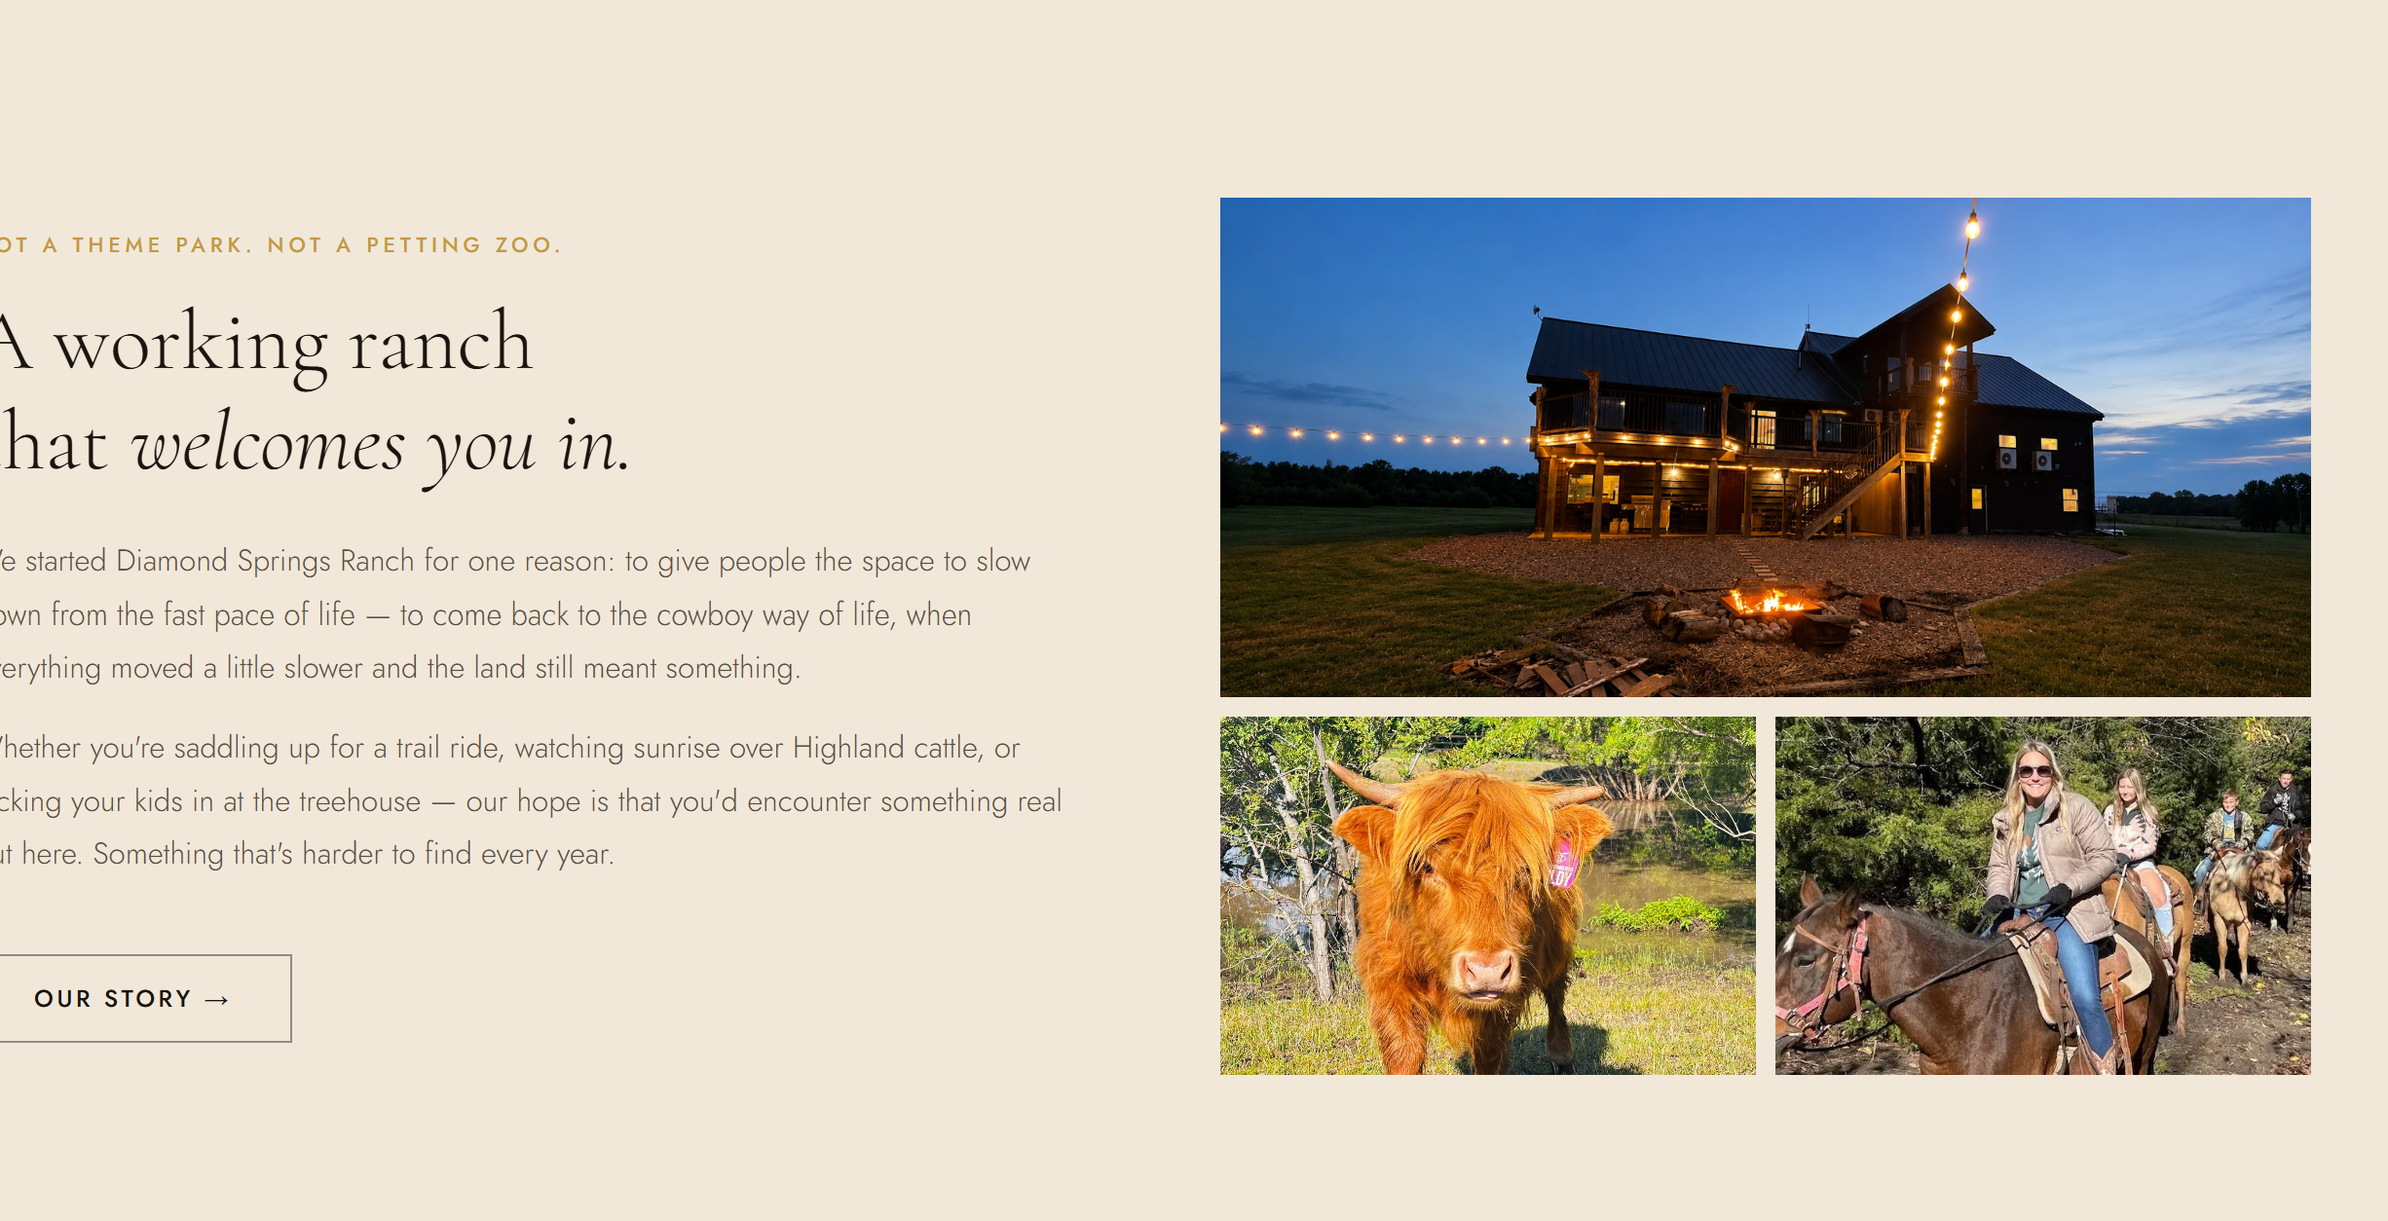
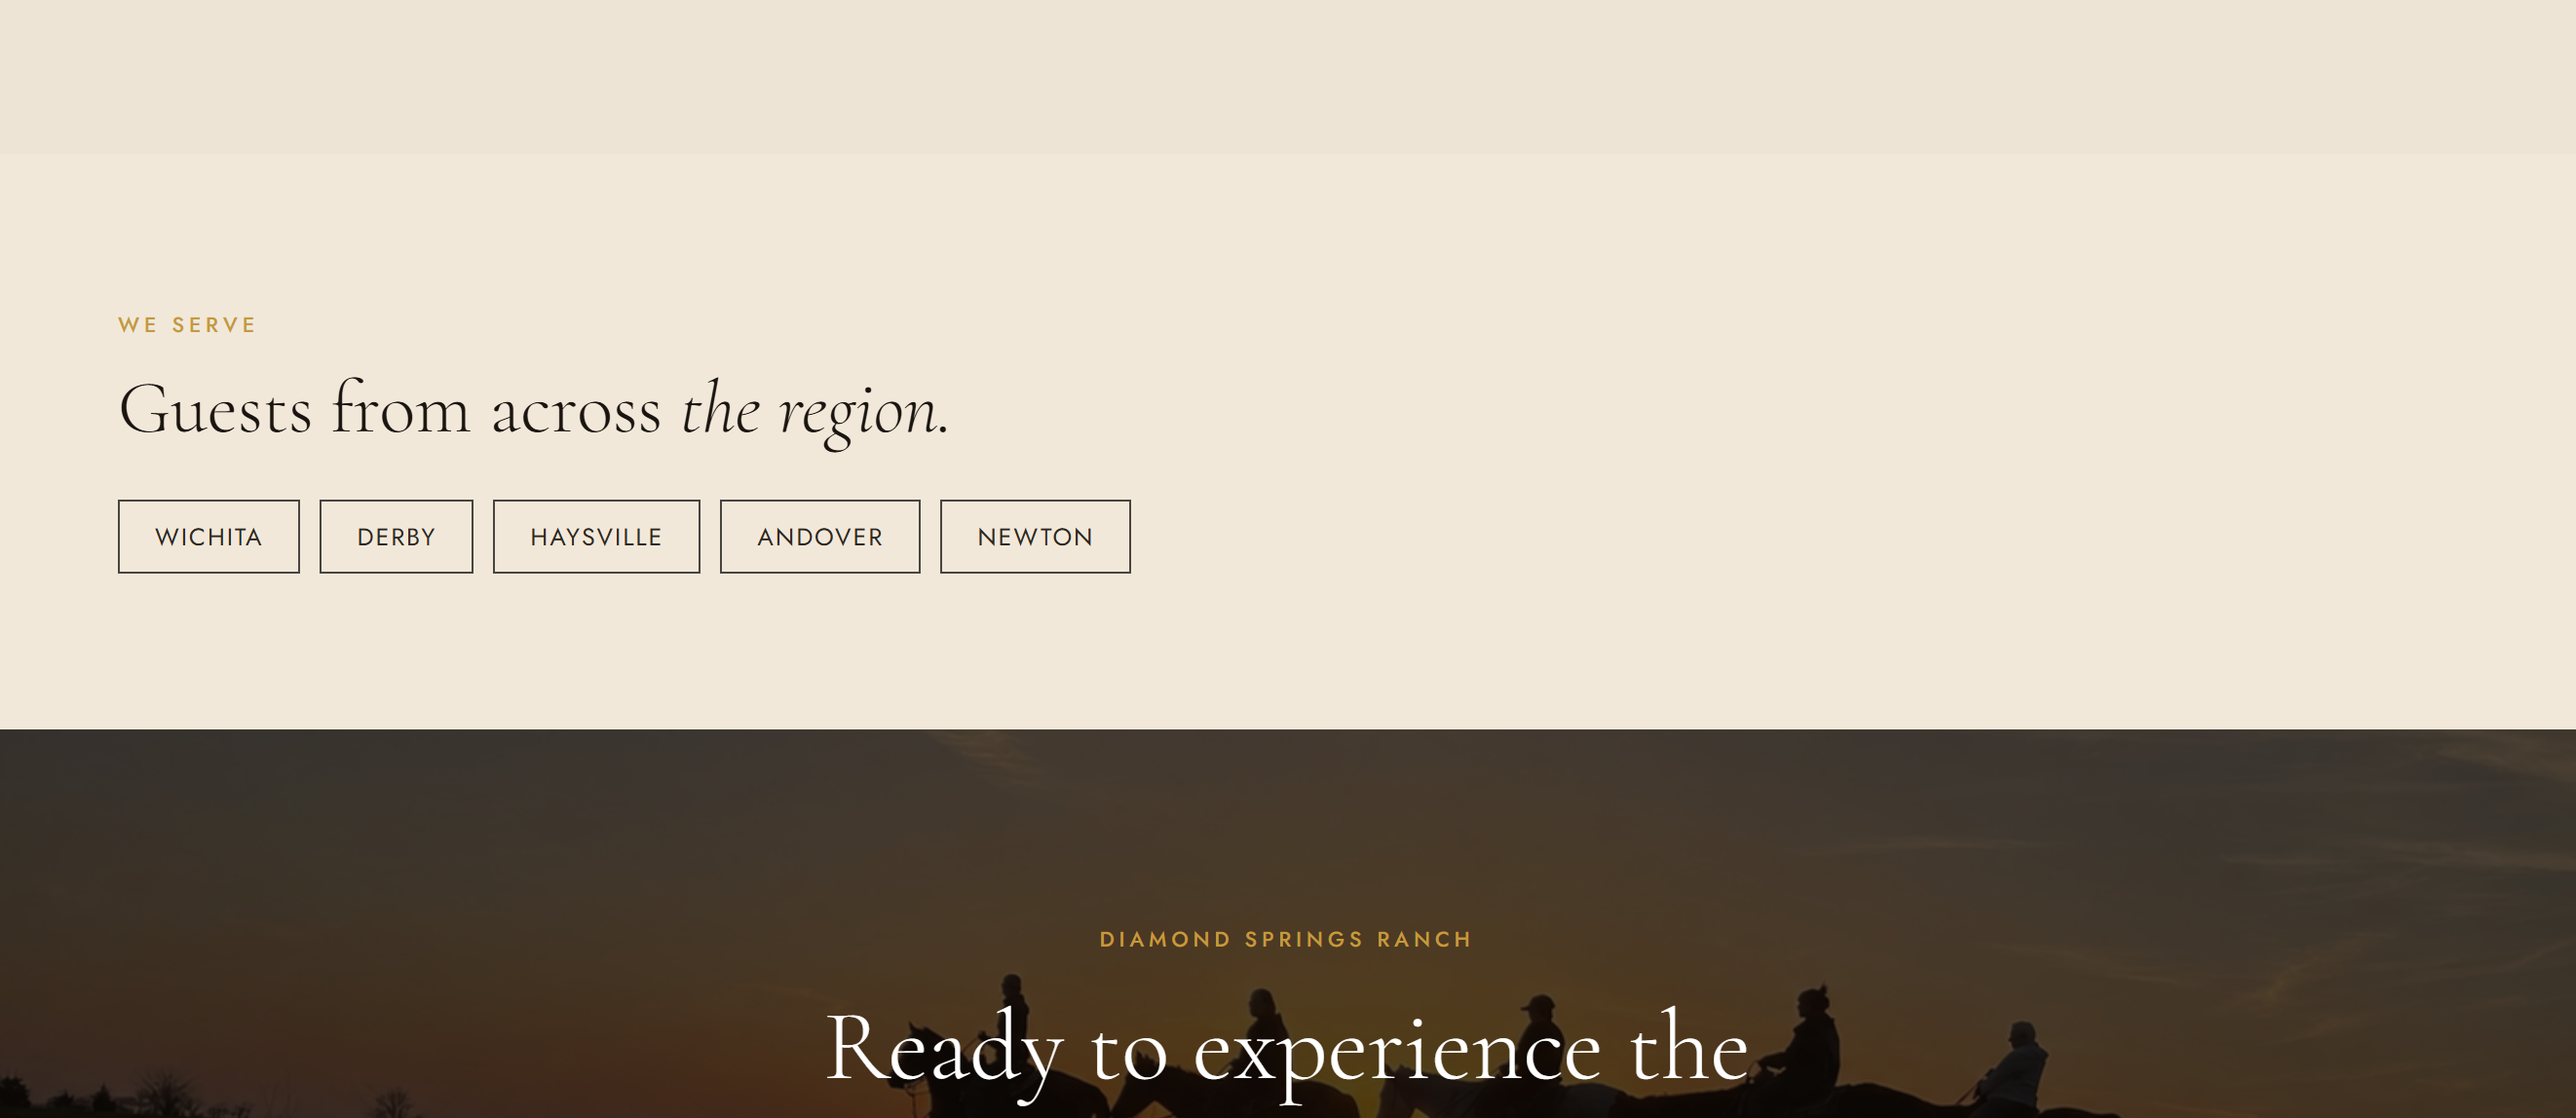
Update service area heading to 'Rooted in Kansas. Welcoming guests from everywhere.'

diff --git a/dist/covered-wagon-stay/index.html b/dist/covered-wagon-stay/index.html
@@ -22,7 +22,7 @@
 <link rel="preconnect" href="https://fonts.gstatic.com" crossorigin>
 <link href="https://fonts.googleapis.com/css2?family=Cormorant+Garamond:ital,wght@0,300;0,400;0,600;1,300;1,400&family=Jost:wght@300;400;500;600&display=swap" rel="stylesheet">
 <link href="https://fonts.cdnfonts.com/css/norwester" rel="stylesheet">
-<link rel="stylesheet" href="/v2.css?v=mtn08x2y">
+<link rel="stylesheet" href="/v2.css?v=mtn13aee">
 <style>
   /* Subpage interior overrides */
   body { background: var(--cream); }
@@ -349,7 +349,7 @@ Highly recommend this place if you’re looking for a peaceful getaway with grea
 <section class="dsr-section">
   <div class="dsr-container">
     <span class="dsr-section-label">We Serve</span>
-    <h2 style="font-family:var(--font-serif);font-size:clamp(1.6rem,2.8vw,2.4rem);font-weight:300;margin-bottom:24px;">Guests from across <em>the region.</em></h2>
+    <h2 style="font-family:var(--font-serif);font-size:clamp(1.6rem,2.8vw,2.4rem);font-weight:300;margin-bottom:24px;">Rooted in Kansas. Welcoming guests <em>from everywhere.</em></h2>
     <div class="dsr-link-grid"><a href="/wichita-ks/" class="dsr-link-chip">Wichita</a><a href="/derby-ks/" class="dsr-link-chip">Derby</a><a href="/haysville-ks/" class="dsr-link-chip">Haysville</a><a href="/andover-ks/" class="dsr-link-chip">Andover</a><a href="/newton-ks/" class="dsr-link-chip">Newton</a></div>
   </div>
 </section>

diff --git a/dist/dinner-date-experience/index.html b/dist/dinner-date-experience/index.html
@@ -22,7 +22,7 @@
 <link rel="preconnect" href="https://fonts.gstatic.com" crossorigin>
 <link href="https://fonts.googleapis.com/css2?family=Cormorant+Garamond:ital,wght@0,300;0,400;0,600;1,300;1,400&family=Jost:wght@300;400;500;600&display=swap" rel="stylesheet">
 <link href="https://fonts.cdnfonts.com/css/norwester" rel="stylesheet">
-<link rel="stylesheet" href="/v2.css?v=mtn08x2y">
+<link rel="stylesheet" href="/v2.css?v=mtn13aee">
 <style>
   /* Subpage interior overrides */
   body { background: var(--cream); }
@@ -350,7 +350,7 @@ Highly recommend this place if you’re looking for a peaceful getaway with grea
 <section class="dsr-section">
   <div class="dsr-container">
     <span class="dsr-section-label">We Serve</span>
-    <h2 style="font-family:var(--font-serif);font-size:clamp(1.6rem,2.8vw,2.4rem);font-weight:300;margin-bottom:24px;">Guests from across <em>the region.</em></h2>
+    <h2 style="font-family:var(--font-serif);font-size:clamp(1.6rem,2.8vw,2.4rem);font-weight:300;margin-bottom:24px;">Rooted in Kansas. Welcoming guests <em>from everywhere.</em></h2>
     <div class="dsr-link-grid"><a href="/wichita-ks/" class="dsr-link-chip">Wichita</a><a href="/derby-ks/" class="dsr-link-chip">Derby</a><a href="/haysville-ks/" class="dsr-link-chip">Haysville</a><a href="/andover-ks/" class="dsr-link-chip">Andover</a><a href="/newton-ks/" class="dsr-link-chip">Newton</a></div>
   </div>
 </section>

diff --git a/dist/guided-horseback-rides/index.html b/dist/guided-horseback-rides/index.html
@@ -22,7 +22,7 @@
 <link rel="preconnect" href="https://fonts.gstatic.com" crossorigin>
 <link href="https://fonts.googleapis.com/css2?family=Cormorant+Garamond:ital,wght@0,300;0,400;0,600;1,300;1,400&family=Jost:wght@300;400;500;600&display=swap" rel="stylesheet">
 <link href="https://fonts.cdnfonts.com/css/norwester" rel="stylesheet">
-<link rel="stylesheet" href="/v2.css?v=mtn08x2y">
+<link rel="stylesheet" href="/v2.css?v=mtn13aee">
 <style>
   /* Subpage interior overrides */
   body { background: var(--cream); }
@@ -350,7 +350,7 @@ Highly recommend this place if you’re looking for a peaceful getaway with grea
 <section class="dsr-section">
   <div class="dsr-container">
     <span class="dsr-section-label">We Serve</span>
-    <h2 style="font-family:var(--font-serif);font-size:clamp(1.6rem,2.8vw,2.4rem);font-weight:300;margin-bottom:24px;">Guests from across <em>the region.</em></h2>
+    <h2 style="font-family:var(--font-serif);font-size:clamp(1.6rem,2.8vw,2.4rem);font-weight:300;margin-bottom:24px;">Rooted in Kansas. Welcoming guests <em>from everywhere.</em></h2>
     <div class="dsr-link-grid"><a href="/wichita-ks/" class="dsr-link-chip">Wichita</a><a href="/derby-ks/" class="dsr-link-chip">Derby</a><a href="/haysville-ks/" class="dsr-link-chip">Haysville</a><a href="/andover-ks/" class="dsr-link-chip">Andover</a><a href="/newton-ks/" class="dsr-link-chip">Newton</a></div>
   </div>
 </section>

diff --git a/dist/highland-cattle-experience/index.html b/dist/highland-cattle-experience/index.html
@@ -22,7 +22,7 @@
 <link rel="preconnect" href="https://fonts.gstatic.com" crossorigin>
 <link href="https://fonts.googleapis.com/css2?family=Cormorant+Garamond:ital,wght@0,300;0,400;0,600;1,300;1,400&family=Jost:wght@300;400;500;600&display=swap" rel="stylesheet">
 <link href="https://fonts.cdnfonts.com/css/norwester" rel="stylesheet">
-<link rel="stylesheet" href="/v2.css?v=mtn08x2y">
+<link rel="stylesheet" href="/v2.css?v=mtn13aee">
 <style>
   /* Subpage interior overrides */
   body { background: var(--cream); }
@@ -350,7 +350,7 @@ Highly recommend this place if you’re looking for a peaceful getaway with grea
 <section class="dsr-section">
   <div class="dsr-container">
     <span class="dsr-section-label">We Serve</span>
-    <h2 style="font-family:var(--font-serif);font-size:clamp(1.6rem,2.8vw,2.4rem);font-weight:300;margin-bottom:24px;">Guests from across <em>the region.</em></h2>
+    <h2 style="font-family:var(--font-serif);font-size:clamp(1.6rem,2.8vw,2.4rem);font-weight:300;margin-bottom:24px;">Rooted in Kansas. Welcoming guests <em>from everywhere.</em></h2>
     <div class="dsr-link-grid"><a href="/wichita-ks/" class="dsr-link-chip">Wichita</a><a href="/derby-ks/" class="dsr-link-chip">Derby</a><a href="/haysville-ks/" class="dsr-link-chip">Haysville</a><a href="/andover-ks/" class="dsr-link-chip">Andover</a><a href="/newton-ks/" class="dsr-link-chip">Newton</a></div>
   </div>
 </section>

diff --git a/dist/horse-day-camp/index.html b/dist/horse-day-camp/index.html
@@ -22,7 +22,7 @@
 <link rel="preconnect" href="https://fonts.gstatic.com" crossorigin>
 <link href="https://fonts.googleapis.com/css2?family=Cormorant+Garamond:ital,wght@0,300;0,400;0,600;1,300;1,400&family=Jost:wght@300;400;500;600&display=swap" rel="stylesheet">
 <link href="https://fonts.cdnfonts.com/css/norwester" rel="stylesheet">
-<link rel="stylesheet" href="/v2.css?v=mtn08x2y">
+<link rel="stylesheet" href="/v2.css?v=mtn13aee">
 <style>
   /* Subpage interior overrides */
   body { background: var(--cream); }
@@ -350,7 +350,7 @@ Highly recommend this place if you’re looking for a peaceful getaway with grea
 <section class="dsr-section">
   <div class="dsr-container">
     <span class="dsr-section-label">We Serve</span>
-    <h2 style="font-family:var(--font-serif);font-size:clamp(1.6rem,2.8vw,2.4rem);font-weight:300;margin-bottom:24px;">Guests from across <em>the region.</em></h2>
+    <h2 style="font-family:var(--font-serif);font-size:clamp(1.6rem,2.8vw,2.4rem);font-weight:300;margin-bottom:24px;">Rooted in Kansas. Welcoming guests <em>from everywhere.</em></h2>
     <div class="dsr-link-grid"><a href="/wichita-ks/" class="dsr-link-chip">Wichita</a><a href="/derby-ks/" class="dsr-link-chip">Derby</a><a href="/haysville-ks/" class="dsr-link-chip">Haysville</a><a href="/andover-ks/" class="dsr-link-chip">Andover</a><a href="/newton-ks/" class="dsr-link-chip">Newton</a></div>
   </div>
 </section>

diff --git a/dist/luxury-treehouse-stay/index.html b/dist/luxury-treehouse-stay/index.html
@@ -22,7 +22,7 @@
 <link rel="preconnect" href="https://fonts.gstatic.com" crossorigin>
 <link href="https://fonts.googleapis.com/css2?family=Cormorant+Garamond:ital,wght@0,300;0,400;0,600;1,300;1,400&family=Jost:wght@300;400;500;600&display=swap" rel="stylesheet">
 <link href="https://fonts.cdnfonts.com/css/norwester" rel="stylesheet">
-<link rel="stylesheet" href="/v2.css?v=mtn08x2y">
+<link rel="stylesheet" href="/v2.css?v=mtn13aee">
 <style>
   /* Subpage interior overrides */
   body { background: var(--cream); }
@@ -349,7 +349,7 @@ Highly recommend this place if you’re looking for a peaceful getaway with grea
 <section class="dsr-section">
   <div class="dsr-container">
     <span class="dsr-section-label">We Serve</span>
-    <h2 style="font-family:var(--font-serif);font-size:clamp(1.6rem,2.8vw,2.4rem);font-weight:300;margin-bottom:24px;">Guests from across <em>the region.</em></h2>
+    <h2 style="font-family:var(--font-serif);font-size:clamp(1.6rem,2.8vw,2.4rem);font-weight:300;margin-bottom:24px;">Rooted in Kansas. Welcoming guests <em>from everywhere.</em></h2>
     <div class="dsr-link-grid"><a href="/wichita-ks/" class="dsr-link-chip">Wichita</a><a href="/derby-ks/" class="dsr-link-chip">Derby</a><a href="/haysville-ks/" class="dsr-link-chip">Haysville</a><a href="/andover-ks/" class="dsr-link-chip">Andover</a><a href="/newton-ks/" class="dsr-link-chip">Newton</a></div>
   </div>
 </section>

diff --git a/dist/private-events/index.html b/dist/private-events/index.html
@@ -22,7 +22,7 @@
 <link rel="preconnect" href="https://fonts.gstatic.com" crossorigin>
 <link href="https://fonts.googleapis.com/css2?family=Cormorant+Garamond:ital,wght@0,300;0,400;0,600;1,300;1,400&family=Jost:wght@300;400;500;600&display=swap" rel="stylesheet">
 <link href="https://fonts.cdnfonts.com/css/norwester" rel="stylesheet">
-<link rel="stylesheet" href="/v2.css?v=mtn08x2y">
+<link rel="stylesheet" href="/v2.css?v=mtn13aee">
 <style>
   /* Subpage interior overrides */
   body { background: var(--cream); }
@@ -346,7 +346,7 @@ Highly recommend this place if you’re looking for a peaceful getaway with grea
 <section class="dsr-section">
   <div class="dsr-container">
     <span class="dsr-section-label">We Serve</span>
-    <h2 style="font-family:var(--font-serif);font-size:clamp(1.6rem,2.8vw,2.4rem);font-weight:300;margin-bottom:24px;">Guests from across <em>the region.</em></h2>
+    <h2 style="font-family:var(--font-serif);font-size:clamp(1.6rem,2.8vw,2.4rem);font-weight:300;margin-bottom:24px;">Rooted in Kansas. Welcoming guests <em>from everywhere.</em></h2>
     <div class="dsr-link-grid"><a href="/wichita-ks/" class="dsr-link-chip">Wichita</a><a href="/derby-ks/" class="dsr-link-chip">Derby</a><a href="/haysville-ks/" class="dsr-link-chip">Haysville</a><a href="/andover-ks/" class="dsr-link-chip">Andover</a><a href="/newton-ks/" class="dsr-link-chip">Newton</a></div>
   </div>
 </section>

diff --git a/dist/riding-lessons/index.html b/dist/riding-lessons/index.html
@@ -22,7 +22,7 @@
 <link rel="preconnect" href="https://fonts.gstatic.com" crossorigin>
 <link href="https://fonts.googleapis.com/css2?family=Cormorant+Garamond:ital,wght@0,300;0,400;0,600;1,300;1,400&family=Jost:wght@300;400;500;600&display=swap" rel="stylesheet">
 <link href="https://fonts.cdnfonts.com/css/norwester" rel="stylesheet">
-<link rel="stylesheet" href="/v2.css?v=mtn08x2y">
+<link rel="stylesheet" href="/v2.css?v=mtn13aee">
 <style>
   /* Subpage interior overrides */
   body { background: var(--cream); }
@@ -350,7 +350,7 @@ Highly recommend this place if you’re looking for a peaceful getaway with grea
 <section class="dsr-section">
   <div class="dsr-container">
     <span class="dsr-section-label">We Serve</span>
-    <h2 style="font-family:var(--font-serif);font-size:clamp(1.6rem,2.8vw,2.4rem);font-weight:300;margin-bottom:24px;">Guests from across <em>the region.</em></h2>
+    <h2 style="font-family:var(--font-serif);font-size:clamp(1.6rem,2.8vw,2.4rem);font-weight:300;margin-bottom:24px;">Rooted in Kansas. Welcoming guests <em>from everywhere.</em></h2>
     <div class="dsr-link-grid"><a href="/wichita-ks/" class="dsr-link-chip">Wichita</a><a href="/derby-ks/" class="dsr-link-chip">Derby</a><a href="/haysville-ks/" class="dsr-link-chip">Haysville</a><a href="/andover-ks/" class="dsr-link-chip">Andover</a><a href="/newton-ks/" class="dsr-link-chip">Newton</a></div>
   </div>
 </section>

diff --git a/dist/rusty-saddle-bar/index.html b/dist/rusty-saddle-bar/index.html
@@ -22,7 +22,7 @@
 <link rel="preconnect" href="https://fonts.gstatic.com" crossorigin>
 <link href="https://fonts.googleapis.com/css2?family=Cormorant+Garamond:ital,wght@0,300;0,400;0,600;1,300;1,400&family=Jost:wght@300;400;500;600&display=swap" rel="stylesheet">
 <link href="https://fonts.cdnfonts.com/css/norwester" rel="stylesheet">
-<link rel="stylesheet" href="/v2.css?v=mtn08x2y">
+<link rel="stylesheet" href="/v2.css?v=mtn13aee">
 <style>
   /* Subpage interior overrides */
   body { background: var(--cream); }
@@ -342,7 +342,7 @@ Highly recommend this place if you’re looking for a peaceful getaway with grea
 <section class="dsr-section">
   <div class="dsr-container">
     <span class="dsr-section-label">We Serve</span>
-    <h2 style="font-family:var(--font-serif);font-size:clamp(1.6rem,2.8vw,2.4rem);font-weight:300;margin-bottom:24px;">Guests from across <em>the region.</em></h2>
+    <h2 style="font-family:var(--font-serif);font-size:clamp(1.6rem,2.8vw,2.4rem);font-weight:300;margin-bottom:24px;">Rooted in Kansas. Welcoming guests <em>from everywhere.</em></h2>
     <div class="dsr-link-grid"><a href="/wichita-ks/" class="dsr-link-chip">Wichita</a><a href="/derby-ks/" class="dsr-link-chip">Derby</a><a href="/haysville-ks/" class="dsr-link-chip">Haysville</a><a href="/andover-ks/" class="dsr-link-chip">Andover</a><a href="/newton-ks/" class="dsr-link-chip">Newton</a></div>
   </div>
 </section>

diff --git a/build.js b/build.js
@@ -1278,7 +1278,7 @@ ${faqs.length ? `
 <section class="dsr-section">
   <div class="dsr-container">
     <span class="dsr-section-label">We Serve</span>
-    <h2 style="font-family:var(--font-serif);font-size:clamp(1.6rem,2.8vw,2.4rem);font-weight:300;margin-bottom:24px;">Guests from across <em>the region.</em></h2>
+    <h2 style="font-family:var(--font-serif);font-size:clamp(1.6rem,2.8vw,2.4rem);font-weight:300;margin-bottom:24px;">Rooted in Kansas. Welcoming guests <em>from everywhere.</em></h2>
     <div class="dsr-link-grid">${cityLinks}</div>
   </div>
 </section>

diff --git a/dist/about/index.html b/dist/about/index.html
@@ -22,7 +22,7 @@
 <link rel="preconnect" href="https://fonts.gstatic.com" crossorigin>
 <link href="https://fonts.googleapis.com/css2?family=Cormorant+Garamond:ital,wght@0,300;0,400;0,600;1,300;1,400&family=Jost:wght@300;400;500;600&display=swap" rel="stylesheet">
 <link href="https://fonts.cdnfonts.com/css/norwester" rel="stylesheet">
-<link rel="stylesheet" href="/v2.css?v=mtn08x2y">
+<link rel="stylesheet" href="/v2.css?v=mtn13aee">
 <style>
   /* Subpage interior overrides */
   body { background: var(--cream); }

diff --git a/dist/andover-ks/index.html b/dist/andover-ks/index.html
@@ -22,7 +22,7 @@
 <link rel="preconnect" href="https://fonts.gstatic.com" crossorigin>
 <link href="https://fonts.googleapis.com/css2?family=Cormorant+Garamond:ital,wght@0,300;0,400;0,600;1,300;1,400&family=Jost:wght@300;400;500;600&display=swap" rel="stylesheet">
 <link href="https://fonts.cdnfonts.com/css/norwester" rel="stylesheet">
-<link rel="stylesheet" href="/v2.css?v=mtn08x2y">
+<link rel="stylesheet" href="/v2.css?v=mtn13aee">
 <style>
   /* Subpage interior overrides */
   body { background: var(--cream); }
